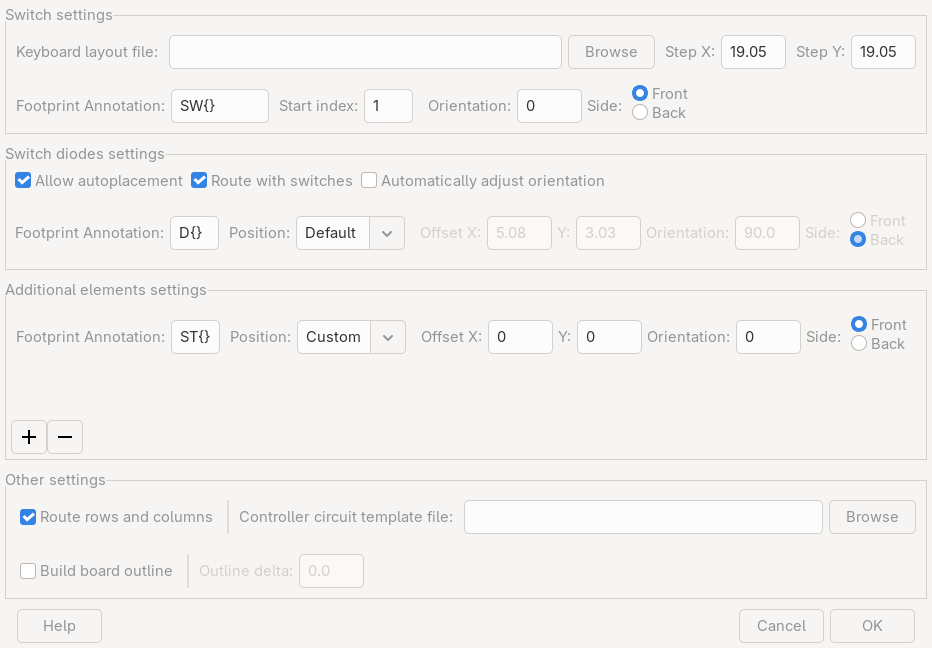
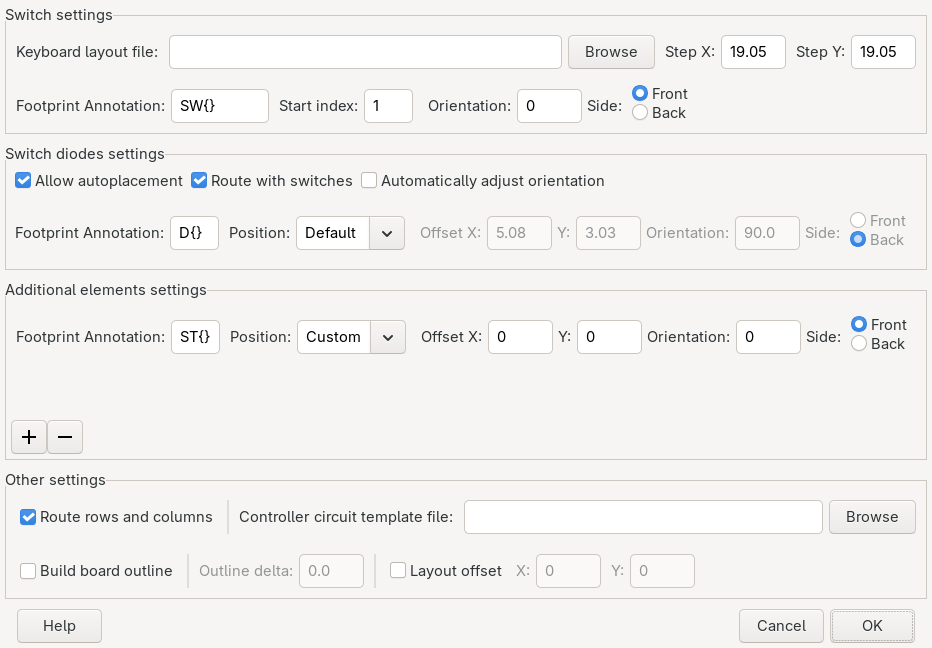
Add option to place layout at specific offset

diff --git a/kbplacer/kbplacer_dialog.py b/kbplacer/kbplacer_dialog.py
@@ -83,6 +83,7 @@ class WindowState:
     template_path: str = ""
     generate_outline: bool = False
     outline_delta: float = 0.0
+    layout_offset: Optional[Tuple[float, float]] = None
 
     def __str__(self) -> str:
         return json.dumps(asdict(self), indent=None)
@@ -97,11 +98,16 @@ class WindowState:
         additional_elements = [
             ElementInfo.from_dict(i) for i in data.pop("additional_elements")
         ]
+        layout_offset_raw = data.pop("layout_offset", None)
+        layout_offset = (
+            tuple(layout_offset_raw) if layout_offset_raw is not None else None
+        )
         return cls(
             key_distance=key_distance,
             key_info=key_info,
             diode_info=diode_info,
             additional_elements=additional_elements,
+            layout_offset=layout_offset,
             **data,
         )
 
@@ -712,6 +718,7 @@ class KbplacerDialog(wx.Dialog):
             template_path=initial_state.template_path,
             generate_outline=initial_state.generate_outline,
             outline_delta=initial_state.outline_delta,
+            layout_offset=initial_state.layout_offset,
         )
 
         box = wx.BoxSizer(wx.VERTICAL)
@@ -980,6 +987,7 @@ class KbplacerDialog(wx.Dialog):
         template_path: str = "",
         generate_outline: bool = False,
         outline_delta: float = 0.0,
+        layout_offset: Optional[Tuple[float, float]] = None,
     ) -> wx.Sizer:
         row_and_columns_tracks_checkbox = wx.CheckBox(
             self, label=self._("Route rows and columns")
@@ -1020,10 +1028,56 @@ class KbplacerDialog(wx.Dialog):
             validator=FloatValidator(),
         )
 
+        offset_enabled = layout_offset is not None
+        layout_offset_checkbox = wx.CheckBox(self, label=self._("Layout offset"))
+        layout_offset_checkbox.SetValue(offset_enabled)
+
+        offset_x_value = str(layout_offset[0]) if layout_offset is not None else "0"
+        offset_y_value = str(layout_offset[1]) if layout_offset is not None else "0"
+        layout_offset_x = LabeledTextCtrl(
+            self,
+            "X:",
+            value=offset_x_value,
+            width=5,
+            validator=FloatValidator(),
+            tooltip=self._("X placement offset for the keyboard layout in mm"),
+        )
+        layout_offset_y = LabeledTextCtrl(
+            self,
+            "Y:",
+            value=offset_y_value,
+            width=5,
+            validator=FloatValidator(),
+            tooltip=self._("Y placement offset for the keyboard layout in mm"),
+        )
+        if offset_enabled:
+            layout_offset_x.Enable()
+            layout_offset_y.Enable()
+        else:
+            layout_offset_x.Disable()
+            layout_offset_y.Disable()
+
+        def on_layout_offset_checkbox(event) -> None:
+            enabled = layout_offset_checkbox.GetValue()
+            if enabled:
+                layout_offset_x.Enable()
+                layout_offset_y.Enable()
+            else:
+                layout_offset_x.Disable()
+                layout_offset_y.Disable()
+
+        layout_offset_checkbox.Bind(wx.EVT_CHECKBOX, on_layout_offset_checkbox)
+
         row2 = wx.BoxSizer(wx.HORIZONTAL)
         row2.Add(generate_outline_checkbox, 0, wx.EXPAND | wx.ALL, 5)
         row2.Add(wx.StaticLine(self, style=wx.LI_VERTICAL), 0, wx.EXPAND | wx.ALL, 5)
         row2.Add(outline_delta_ctrl, 0, wx.EXPAND | wx.LEFT | wx.RIGHT, 5)
+        row2.Add(wx.StaticLine(self, style=wx.LI_VERTICAL), 0, wx.EXPAND | wx.ALL, 5)
+        row2.Add(
+            layout_offset_checkbox, 0, wx.LEFT | wx.RIGHT | wx.ALIGN_CENTER_VERTICAL, 5
+        )
+        row2.Add(layout_offset_x, 0, wx.EXPAND | wx.LEFT | wx.RIGHT, 5)
+        row2.Add(layout_offset_y, 0, wx.EXPAND | wx.LEFT | wx.RIGHT, 5)
 
         box = wx.StaticBox(self, label=self._("Other settings"))
         sizer = wx.StaticBoxSizer(box, wx.VERTICAL)
@@ -1034,6 +1088,9 @@ class KbplacerDialog(wx.Dialog):
         self.__template_picker = template_picker
         self.__generate_outline_checkbox = generate_outline_checkbox
         self.__outline_delta_ctrl = outline_delta_ctrl
+        self.__layout_offset_enabled = layout_offset_checkbox
+        self.__layout_offset_x = layout_offset_x.text
+        self.__layout_offset_y = layout_offset_y.text
 
         self.__enable_outline_delta(generate_outline)
 
@@ -1108,6 +1165,13 @@ class KbplacerDialog(wx.Dialog):
     def get_outline_delta(self) -> float:
         return float(self.__outline_delta_ctrl.text.GetValue())
 
+    def get_layout_offset(self) -> Optional[Tuple[float, float]]:
+        if not self.__layout_offset_enabled.GetValue():
+            return None
+        x = float(self.__layout_offset_x.GetValue())
+        y = float(self.__layout_offset_y.GetValue())
+        return (x, y)
+
     def get_window_state(self) -> WindowState:
         return WindowState(
             layout_path=self.get_layout_path(),
@@ -1122,6 +1186,7 @@ class KbplacerDialog(wx.Dialog):
             template_path=self.get_template_path(),
             generate_outline=self.generate_outline(),
             outline_delta=self.get_outline_delta(),
+            layout_offset=self.get_layout_offset(),
         )
 
 

diff --git a/kbplacer/key_placer.py b/kbplacer/key_placer.py
@@ -742,6 +742,7 @@ class KeyPlacer(BoardModifier):
         key_matrix: KeyMatrix,
         key_info: ElementInfo,
         key_distance: Optional[Tuple[float, float]] = None,
+        layout_offset: Optional[Tuple[float, float]] = None,
     ) -> None:
         key_position = key_info.position
         start_index = key_info.start_index
@@ -751,9 +752,21 @@ class KeyPlacer(BoardModifier):
         logger.debug(f"Using key 1U distance: {final_key_distance} mm")
         key_distance_x = cast(int, pcbnew.FromMM(final_key_distance[0]))
         key_distance_y = cast(int, pcbnew.FromMM(final_key_distance[1]))
-        offset = self._calculate_reference_coordinate(
-            keyboard, key_matrix, key_distance_x, key_distance_y, start_index
-        )
+        if layout_offset is not None:
+            # Use the topmost/leftmost key (by KLE coordinates) as the reference,
+            # consistent with other KLE tooling. This is independent of matrix
+            # annotation order which may differ for annotated layouts.
+            ref_key = min(keyboard.keys, key=lambda k: (k.y, k.x))
+            ref_center_x = int(key_distance_x * (ref_key.x + ref_key.width / 2))
+            ref_center_y = int(key_distance_y * (ref_key.y + ref_key.height / 2))
+            offset = pcbnew.VECTOR2I(
+                int(pcbnew.FromMM(layout_offset[0])) - ref_center_x,
+                int(pcbnew.FromMM(layout_offset[1])) - ref_center_y,
+            )
+        else:
+            offset = self._calculate_reference_coordinate(
+                keyboard, key_matrix, key_distance_x, key_distance_y, start_index
+            )
         logger.debug(f"Layout offset: {offset}")
         key_iterator: Iterator = get_key_iterator(keyboard, key_matrix, start_index)
 
@@ -1055,6 +1068,7 @@ class KeyPlacer(BoardModifier):
         additional_elements: List[ElementInfo] = [],
         optimize_diodes_orientation: bool = False,
         key_distance: Optional[Tuple[float, float]] = None,
+        layout_offset: Optional[Tuple[float, float]] = None,
     ) -> None:
         if key_info.start_index < 0:
             logger.warning(
@@ -1118,7 +1132,9 @@ class KeyPlacer(BoardModifier):
             if isinstance(keyboard, MatrixAnnotatedKeyboard):
                 # can be called only once:
                 keyboard.collapse()
-            self.place_switches(keyboard, key_matrix, key_info, key_distance)
+            self.place_switches(
+                keyboard, key_matrix, key_info, key_distance, layout_offset
+            )
 
         logger.info(f"Diode info: {diode_infos}")
         if diode_info.position_option != PositionOption.UNCHANGED:

diff --git a/tests/test_key_placer.py b/tests/test_key_placer.py
@@ -385,6 +385,39 @@ def test_switch_distance(key_distance, tmpdir, request) -> None:
         assert get_position(diode) == get_position(switch) + pcbnew.VECTOR2I_MM(x, y)
 
 
+@pytest.mark.parametrize(
+    "layout_offset,key_distance",
+    [
+        # explicit offsets
+        ((0.0, 0.0), (19.05, 19.05)),
+        ((10.0, 20.0), (19.05, 19.05)),
+        ((40.0, 30.0), (19.05, 19.05)),
+        # None uses auto-calculation (2U margin)
+        (None, (19.05, 19.05)),
+    ],
+)
+def test_layout_offset(layout_offset, key_distance, tmpdir, request) -> None:
+    board = get_board_for_2x2_example(request)
+    key_placer = KeyPlacer(board)
+    key_placer.run(
+        get_2x2_layout_path(request),
+        ElementInfo("SW{}", PositionOption.DEFAULT, ZERO_POSITION, "", 1),
+        ElementInfo("D{}", PositionOption.DEFAULT, DEFAULT_DIODE_POSITION, ""),
+        key_distance=key_distance,
+        layout_offset=layout_offset,
+    )
+
+    sw1 = get_footprint(board, "SW1")
+    sw1_pos = get_position(sw1)
+
+    if layout_offset is not None:
+        ox, oy = layout_offset
+        assert sw1_pos == pcbnew.VECTOR2I_MM(ox, oy)
+    else:
+        # auto-calculated: 2U margin
+        assert sw1_pos == pcbnew.VECTOR2I_MM(key_distance[0] * 2, key_distance[1] * 2)
+
+
 def test_diode_placement_ignore(tmpdir, request) -> None:
     board = get_board_for_2x2_example(request)
     key_placer = KeyPlacer(board)

diff --git a/tests/test_cli.py b/tests/test_cli.py
@@ -52,6 +52,7 @@ def get_default(board_path: str) -> PluginSettings:
         switch_footprint="",
         diode_footprint="",
         stabilizer_footprint="",
+        layout_offset=None,
     )
 
 
@@ -271,6 +272,25 @@ def expects_settings(default_difference: Dict):
             ["--key-distance", "18 18 18"],
             pytest.raises(ArgumentTypeError,
                 match=r"--key-distance must be exactly two numeric values separated by a space."
+            ),
+        ),
+        # valid layout-offset option values
+        #   - integers
+        (
+            ["--layout-offset", "10 20"],
+            expects_settings({"layout_offset": (10, 20)}),
+        ),
+        #   - floats
+        (
+            ["--layout-offset", "10.5 20.0"],
+            expects_settings({"layout_offset": (10.5, 20.0)}),
+        ),
+        # invalid layout-offset option values
+        #   - too many tokens
+        (
+            ["--layout-offset", "10 20 30"],
+            pytest.raises(ArgumentTypeError,
+                match=r"--layout-offset must be exactly two numeric values separated by a space."
             ),
         ),
         # some more complex scenarios combining multiple options:

diff --git a/kbplacer/kbplacer_plugin.py b/kbplacer/kbplacer_plugin.py
@@ -38,6 +38,7 @@ class PluginSettings:
     switch_footprint: str
     diode_footprint: str
     stabilizer_footprint: str
+    layout_offset: Optional[Tuple[float, float]] = None
 
 
 def run_schematic(settings: PluginSettings):
@@ -76,6 +77,7 @@ def run_board(settings: PluginSettings) -> pcbnew.BOARD:
         additional_elements=settings.additional_elements,
         optimize_diodes_orientation=settings.optimize_diodes_orientation,
         key_distance=settings.key_distance,
+        layout_offset=settings.layout_offset,
     )
 
     if settings.generate_outline:
@@ -102,6 +104,7 @@ def run_from_gui(pcb_file_path: str, state: WindowState) -> pcbnew.BOARD:
         layout_path=state.layout_path,
         key_info=state.key_info,
         key_distance=state.key_distance,
+        layout_offset=state.layout_offset,
         diode_info=state.diode_info,
         route_switches_with_diodes=state.route_switches_with_diodes,
         optimize_diodes_orientation=state.optimize_diodes_orientation,

diff --git a/kbplacer/__main__.py b/kbplacer/__main__.py
@@ -321,6 +321,17 @@ def app() -> None:
         ),
     )
     parser.add_argument(
+        "--layout-offset",
+        default=None,
+        action=XYAction,
+        help=(
+            "X and Y placement offset for the keyboard layout in mm, "
+            "as two space separated numeric values. "
+            "If not specified, offset is auto-calculated to align the first key to a grid"
+            "with an offset to avoid pcbnew's Drawing Sheet borders."
+        ),
+    )
+    parser.add_argument(
         "-t",
         "--template",
         required=False,
@@ -486,6 +497,7 @@ def app() -> None:
         layout_path=layout_path,
         key_info=args.switch,
         key_distance=args.key_distance,
+        layout_offset=args.layout_offset,
         diode_info=args.diode,
         route_switches_with_diodes=args.route_switches_with_diodes,
         optimize_diodes_orientation=args.optimize_diodes_orientation,

diff --git a/README.md b/README.md
@@ -352,7 +352,7 @@ python -m com_github_adamws_kicad-kbplacer --help
     </td>
   </tr>
   <tr>
-    <td rowspan="4" align="center" style="vertical-align: middle;">Other settings</td>
+    <td rowspan="5" align="center" style="vertical-align: middle;">Other settings</td>
     <td align="center" style="vertical-align: middle;">Route rows and columns</td>
     <td>
       Enables/disables automatic routing of keyboard switch matrix.
@@ -383,6 +383,15 @@ python -m com_github_adamws_kicad-kbplacer --help
     <td align="center" style="vertical-align: middle;">Outline delta</td>
     <td>
       The amount (in millimeters) to inflate/deflate generated outline shape.
+    </td>
+  </tr>
+  <tr>
+    <td align="center" style="vertical-align: middle;">Layout offset</td>
+    <td>
+      The X and Y placement offset for the keyboard layout in millimeters.
+      If not specified, offset is auto-calculated to align the first key to a grid
+      with an offset to avoid pcbnew's Drawing Sheet borders.
+      Uses topmost-leftmost key as the reference.
     </td>
   </tr>
 </table>
